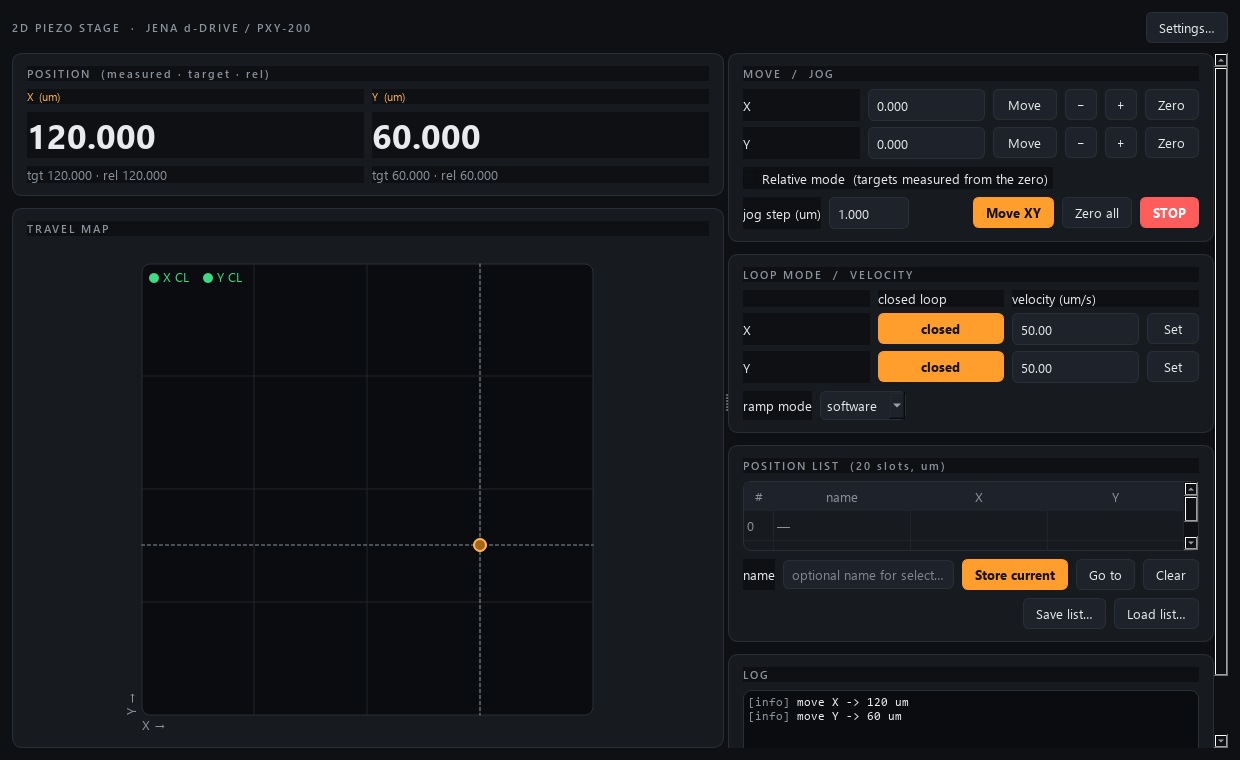
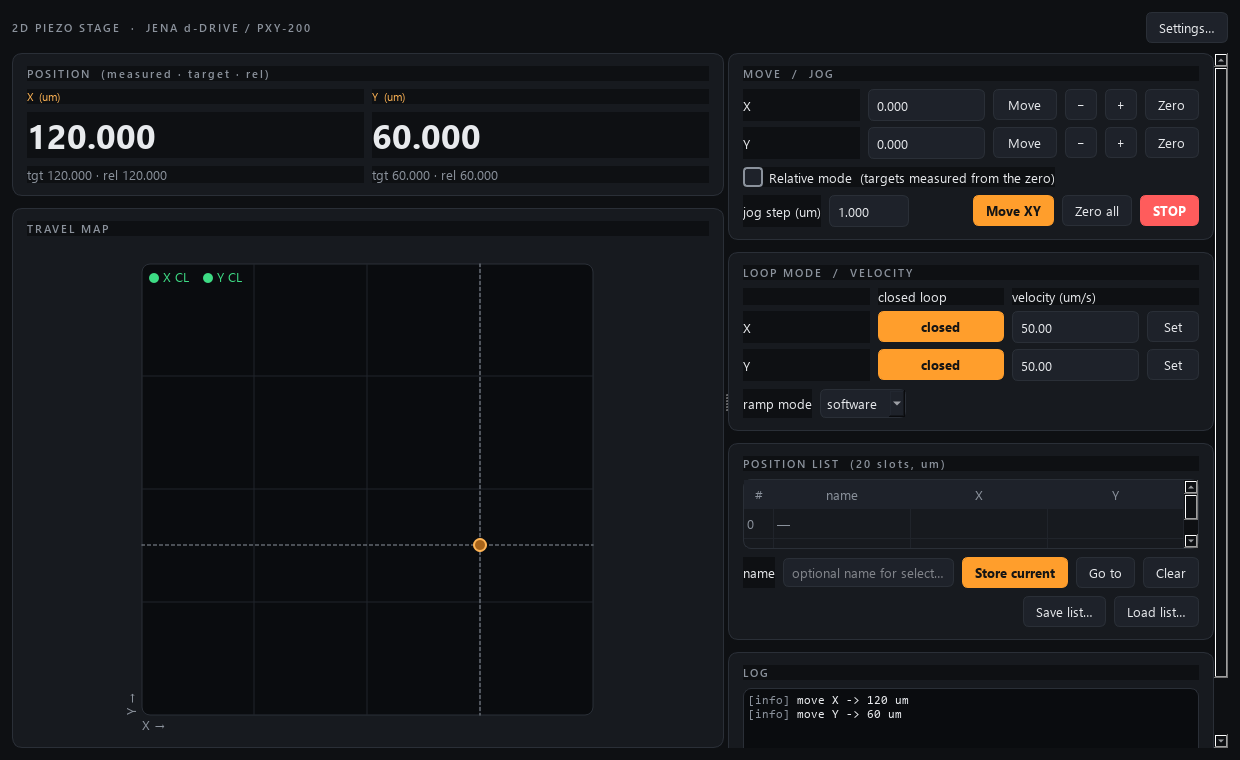
GUIs: visible checkboxes in the dark theme (mission-control, piezo, stage, ddr25, elliptec)
Qt's default indicator is nearly invisible on the dark panels (Lukas,
2026-10-14). Same high-contrast rule the camera and the other modules use.

diff --git a/mission-control/theme.py b/mission-control/theme.py
@@ -108,6 +108,16 @@ QToolButton#move {{ color:{c['muted']}; background:transparent; border:none;
     border-radius:5px; font-size:13px; }}
 QToolButton#move:hover {{ color:{c['accent']}; background:{c['panel_hi']}; }}
 QToolButton#move:disabled {{ color:{c['border']}; }}
+/* checkboxes drawn by us: Qt's default box is nearly invisible on the dark panels (Lukas, 2026-10-14) */
+QCheckBox::indicator {{
+    width: 16px; height: 16px;
+    border: 2px solid {c['muted']}; border-radius: 4px;
+    background: {c['panel_hi']};
+}}
+QCheckBox::indicator:hover {{ border: 2px solid {c['accent_hi']}; }}
+QCheckBox::indicator:checked {{ background: {c['accent']}; border: 2px solid {c['accent']}; }}
+QCheckBox::indicator:checked:hover {{ background: {c['accent_hi']}; border: 2px solid {c['accent_hi']}; }}
+QCheckBox::indicator:disabled {{ border: 2px solid {c['border']}; background: {c['panel']}; }}
 """
 
 

diff --git a/modules/motion/ddr25-control/src/ddr25/apps/theme.py b/modules/motion/ddr25-control/src/ddr25/apps/theme.py
@@ -189,6 +189,16 @@ QTabBar::tab {{
     border-top-right-radius: 6px;
 }}
 QTabBar::tab:selected {{ background: {c['panel_hi']}; color: {c['accent_hi']}; }}
+/* checkboxes drawn by us: Qt's default box is nearly invisible on the dark panels (Lukas, 2026-10-14) */
+QCheckBox::indicator {{
+    width: 16px; height: 16px;
+    border: 2px solid {c['muted']}; border-radius: 4px;
+    background: {c['panel_hi']};
+}}
+QCheckBox::indicator:hover {{ border: 2px solid {c['accent_hi']}; }}
+QCheckBox::indicator:checked {{ background: {c['accent']}; border: 2px solid {c['accent']}; }}
+QCheckBox::indicator:checked:hover {{ background: {c['accent_hi']}; border: 2px solid {c['accent_hi']}; }}
+QCheckBox::indicator:disabled {{ border: 2px solid {c['border']}; background: {c['panel']}; }}
 """
 
 

diff --git a/modules/motion/elliptec-control/src/elliptec/apps/theme.py b/modules/motion/elliptec-control/src/elliptec/apps/theme.py
@@ -187,6 +187,16 @@ QTabBar::tab {{
     border-top-right-radius: 6px;
 }}
 QTabBar::tab:selected {{ background: {c['panel_hi']}; color: {c['accent_hi']}; }}
+/* checkboxes drawn by us: Qt's default box is nearly invisible on the dark panels (Lukas, 2026-10-14) */
+QCheckBox::indicator {{
+    width: 16px; height: 16px;
+    border: 2px solid {c['muted']}; border-radius: 4px;
+    background: {c['panel_hi']};
+}}
+QCheckBox::indicator:hover {{ border: 2px solid {c['accent_hi']}; }}
+QCheckBox::indicator:checked {{ background: {c['accent']}; border: 2px solid {c['accent']}; }}
+QCheckBox::indicator:checked:hover {{ background: {c['accent_hi']}; border: 2px solid {c['accent_hi']}; }}
+QCheckBox::indicator:disabled {{ border: 2px solid {c['border']}; background: {c['panel']}; }}
 """
 
 

diff --git a/modules/motion/piezo-control/src/piezo/apps/theme.py b/modules/motion/piezo-control/src/piezo/apps/theme.py
@@ -180,6 +180,16 @@ QTabBar::tab {{
     border-top-right-radius: 6px;
 }}
 QTabBar::tab:selected {{ background: {c["panel_hi"]}; color: {c["accent_hi"]}; }}
+/* checkboxes drawn by us: Qt's default box is nearly invisible on the dark panels (Lukas, 2026-10-14) */
+QCheckBox::indicator {{
+    width: 16px; height: 16px;
+    border: 2px solid {c['muted']}; border-radius: 4px;
+    background: {c['panel_hi']};
+}}
+QCheckBox::indicator:hover {{ border: 2px solid {c['accent_hi']}; }}
+QCheckBox::indicator:checked {{ background: {c['accent']}; border: 2px solid {c['accent']}; }}
+QCheckBox::indicator:checked:hover {{ background: {c['accent_hi']}; border: 2px solid {c['accent_hi']}; }}
+QCheckBox::indicator:disabled {{ border: 2px solid {c['border']}; background: {c['panel']}; }}
 """
 
 

diff --git a/modules/motion/stage-control/src/stage/apps/theme.py b/modules/motion/stage-control/src/stage/apps/theme.py
@@ -184,6 +184,16 @@ QTabBar::tab {{
     border-top-right-radius: 6px;
 }}
 QTabBar::tab:selected {{ background: {c['panel_hi']}; color: {c['accent_hi']}; }}
+/* checkboxes drawn by us: Qt's default box is nearly invisible on the dark panels (Lukas, 2026-10-14) */
+QCheckBox::indicator {{
+    width: 16px; height: 16px;
+    border: 2px solid {c['muted']}; border-radius: 4px;
+    background: {c['panel_hi']};
+}}
+QCheckBox::indicator:hover {{ border: 2px solid {c['accent_hi']}; }}
+QCheckBox::indicator:checked {{ background: {c['accent']}; border: 2px solid {c['accent']}; }}
+QCheckBox::indicator:checked:hover {{ background: {c['accent_hi']}; border: 2px solid {c['accent_hi']}; }}
+QCheckBox::indicator:disabled {{ border: 2px solid {c['border']}; background: {c['panel']}; }}
 """
 
 
